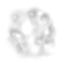
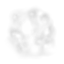
Initial work with frag shader for smoke

diff --git a/core/src/net/sf/openrocket/gui/figure3d/geometry/FlameRenderer.java b/core/src/net/sf/openrocket/gui/figure3d/geometry/FlameRenderer.java
@@ -114,6 +114,10 @@
  */
 package net.sf.openrocket.gui.figure3d.geometry;
 
+import java.io.BufferedReader;
+import java.io.InputStreamReader;
+import java.nio.ByteBuffer;
+import java.nio.IntBuffer;
 import java.util.Random;
 
 import javax.media.opengl.GL;
@@ -129,6 +133,7 @@ import net.sf.openrocket.util.Color;
 import org.slf4j.Logger;
 import org.slf4j.LoggerFactory;
 
+import com.jogamp.common.nio.Buffers;
 import com.jogamp.opengl.util.texture.Texture;
 import com.jogamp.opengl.util.texture.TextureData;
 import com.jogamp.opengl.util.texture.TextureIO;
@@ -155,6 +160,8 @@ public final class FlameRenderer {
 	}
 	
 	static Texture smokeT;
+	static Texture smokeN;
+	static int shaderprogram;
 	
 	private static interface Func {
 		float f(double d);
@@ -170,6 +177,63 @@ public final class FlameRenderer {
 		@Override
 		public float f(final double d) {
 			return val;
+		}
+	}
+	
+	public static void init(GL2 gl) {
+		try {
+			TextureData data = TextureIO.newTextureData(GLProfile.getDefault(), FlameRenderer.class.getResourceAsStream("smoke2.png"), GL.GL_RGBA, GL.GL_RGBA, true, null);
+			smokeT = TextureIO.newTexture(data);
+			data = TextureIO.newTextureData(GLProfile.getDefault(), FlameRenderer.class.getResourceAsStream("normal.png"), GL.GL_RGBA, GL.GL_RGBA, true, null);
+			smokeN = TextureIO.newTexture(data);
+			
+			String line;
+			shaderprogram = gl.glCreateProgram();
+			
+			/*int v = gl.glCreateShader(GL2.GL_FRAGMENT_SHADER);
+			BufferedReader brv = new BufferedReader(new InputStreamReader(FlameRenderer.class.getResourceAsStream("smokeVertex.glsl")));
+			String vsrc = "";
+			while ((line = brv.readLine()) != null) {
+				vsrc += line + "\n";
+			}
+			gl.glShaderSource(v, 1, new String[] { vsrc }, (int[]) null, 0);
+			gl.glAttachShader(shaderprogram, v);
+			gl.glCompileShader(v);*/
+			
+			int f = gl.glCreateShader(GL2.GL_FRAGMENT_SHADER);
+			BufferedReader brf = new BufferedReader(new InputStreamReader(FlameRenderer.class.getResourceAsStream("smokeShader.glsl")));
+			String fsrc = "";
+			while ((line = brf.readLine()) != null) {
+				fsrc += line + "\n";
+			}
+			gl.glShaderSource(f, 1, new String[] { fsrc }, (int[]) null, 0);
+			gl.glCompileShader(f);
+			
+			int statusFragmentShader[] = new int[1];
+			gl.glGetShaderiv(f, GL2.GL_COMPILE_STATUS, IntBuffer.wrap(statusFragmentShader));
+			if (statusFragmentShader[0] == GL2.GL_FALSE)
+			{
+				int infoLogLenght[] = new int[1];
+				gl.glGetShaderiv(f, GL2.GL_INFO_LOG_LENGTH, IntBuffer.wrap(infoLogLenght));
+				ByteBuffer infoLog = Buffers.newDirectByteBuffer(infoLogLenght[0]);
+				gl.glGetShaderInfoLog(f, infoLogLenght[0], null, infoLog);
+				byte[] infoBytes = new byte[infoLogLenght[0]];
+				infoLog.get(infoBytes);
+				String out = new String(infoBytes);
+				System.err.println("Fragment shader error:\n" + out);
+			}
+			
+			gl.glAttachShader(shaderprogram, f);
+			
+			
+			
+			
+			gl.glLinkProgram(shaderprogram);
+			gl.glValidateProgram(shaderprogram);
+			
+			
+		} catch (Exception e1) {
+			e1.printStackTrace();
 		}
 	}
 	
@@ -262,15 +326,17 @@ public final class FlameRenderer {
 		}
 	}
 	
-	public static void f(GL2 gl, boolean flame, boolean smoke, Color smokeColor, Color flameColor, Motor m) {
-		if (smokeT == null) {
-			try {
-				TextureData data = TextureIO.newTextureData(GLProfile.getDefault(), FlameRenderer.class.getResourceAsStream("smoke2.png"), GL.GL_RGBA, GL.GL_RGBA, true, null);
-				smokeT = TextureIO.newTexture(data);
-			} catch (Exception e1) {
-				e1.printStackTrace();
-			}
+	public static void setUniform1i(GL2 inGL, int inProgramID, String inName, int inValue) {
+		int tUniformLocation = inGL.glGetUniformLocation(inProgramID, inName);
+		if (tUniformLocation != -1) {
+			inGL.glUniform1i(tUniformLocation, inValue);
+		} else {
+			log.warn("UNIFORM COULD NOT BE FOUND! NAME={}", inName);
 		}
+	}
+	
+	public static void f(GL2 gl, boolean flame, boolean smoke, Color smokeColor, Color flameColor, Motor m) {
+		
 		
 		gl.glRotated(90, 0, 1, 0);
 		gl.glTranslated(0, 0, 0);
@@ -287,8 +353,8 @@ public final class FlameRenderer {
 		gl.glTexEnvi(GL2.GL_TEXTURE_ENV, GL2.GL_TEXTURE_ENV_MODE, GL2.GL_MODULATE);
 		gl.glDepthMask(false);
 		
-		
-		smokeT.enable(gl);
+		gl.glActiveTexture(GL.GL_TEXTURE0);
+		//smokeT.enable(gl);
 		smokeT.bind(gl);
 		
 		if (smoke) {
@@ -311,7 +377,27 @@ public final class FlameRenderer {
 			};
 			
 			gl.glBlendFunc(GL.GL_SRC_ALPHA, GL.GL_ONE_MINUS_SRC_ALPHA);
+			
+			gl.glActiveTexture(GL.GL_TEXTURE1);
+			//smokeN.enable(gl);
+			smokeN.bind(gl);
+			
+			
+			
+			
+			gl.glUseProgram(shaderprogram);
+			
+			setUniform1i(gl, shaderprogram, "uSmoke", 0);
+			setUniform1i(gl, shaderprogram, "uNormal", 1);
+			
+			
+			
 			trail(gl, radius, dZ, new Const(0.08f), LEN, P * 2, smokeColor);
+			//trail(gl, radius, dZ, new Const(0.08f), 0.2f, 1, smokeColor);
+			gl.glUseProgram(0);
+			
+			smokeN.disable(gl);
+			gl.glActiveTexture(GL.GL_TEXTURE0);
 		}
 		
 		

diff --git a/core/src/net/sf/openrocket/gui/figure3d/PhotoBooth.java b/core/src/net/sf/openrocket/gui/figure3d/PhotoBooth.java
@@ -19,6 +19,7 @@ import java.util.EventObject;
 import java.util.HashSet;
 import java.util.Iterator;
 
+import javax.media.opengl.DebugGL2;
 import javax.media.opengl.GL;
 import javax.media.opengl.GL2;
 import javax.media.opengl.GLAutoDrawable;
@@ -119,7 +120,7 @@ public class PhotoBooth extends JPanel implements GLEventListener {
 		private boolean motionBlurred = false;
 		private boolean flame = false;
 		private Color flameColor = new Color(255, 100, 50);
-		private boolean smoke = false;
+		private boolean smoke = true;
 		private Color smokeColor = new Color(230, 230, 230);
 		
 		public double getRoll() {
@@ -545,7 +546,7 @@ public class PhotoBooth extends JPanel implements GLEventListener {
 		
 		
 		rr.render(drawable, configuration, new HashSet<RocketComponent>());
-		
+		//glu.gluSphere(new GLUquadricImpl(gl, false), .2, 10, 10);
 		
 		String motorID = configuration.getFlightConfigurationID();
 		Iterator<MotorMount> iterator = configuration.motorIterator();
@@ -578,6 +579,7 @@ public class PhotoBooth extends JPanel implements GLEventListener {
 	@Override
 	public void init(final GLAutoDrawable drawable) {
 		log.trace("GL - init()");
+		drawable.setGL(new DebugGL2(drawable.getGL().getGL2()));
 		
 		final GL2 gl = drawable.getGL().getGL2();
 		
@@ -589,7 +591,7 @@ public class PhotoBooth extends JPanel implements GLEventListener {
 		
 		//gl.glDisable(GLLightingFunc.GL_LIGHT1);
 		
-		
+		FlameRenderer.init(gl);
 		
 	}
 	
@@ -831,6 +833,7 @@ public class PhotoBooth extends JPanel implements GLEventListener {
 		ff.setContentPane(pb);
 		ff.setVisible(true);
 		
+		pb.setDoc(doc);
 		while (true) {
 			Thread.sleep(30);
 			//pb.p.setViewAz(pb.p.getViewAz() + 0.01);
